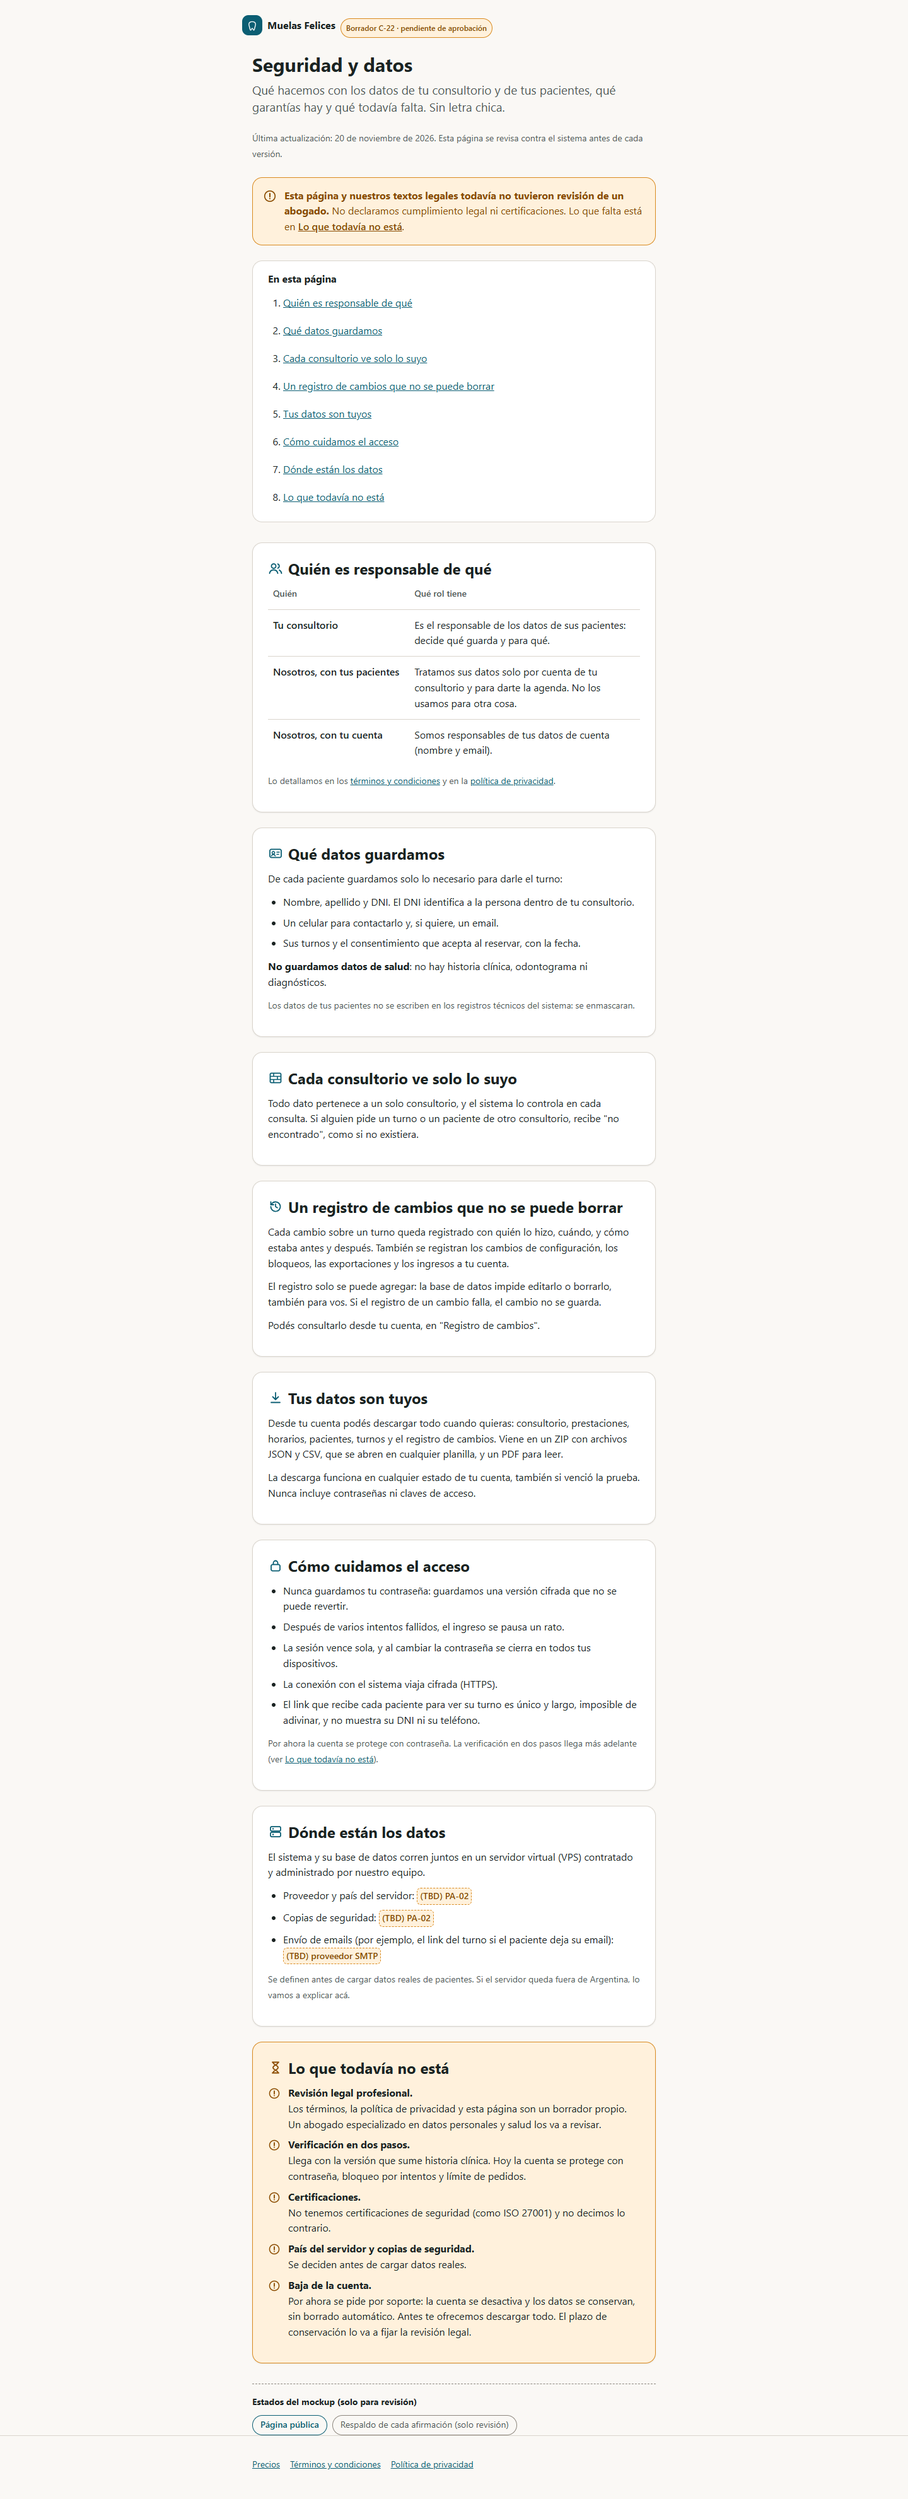
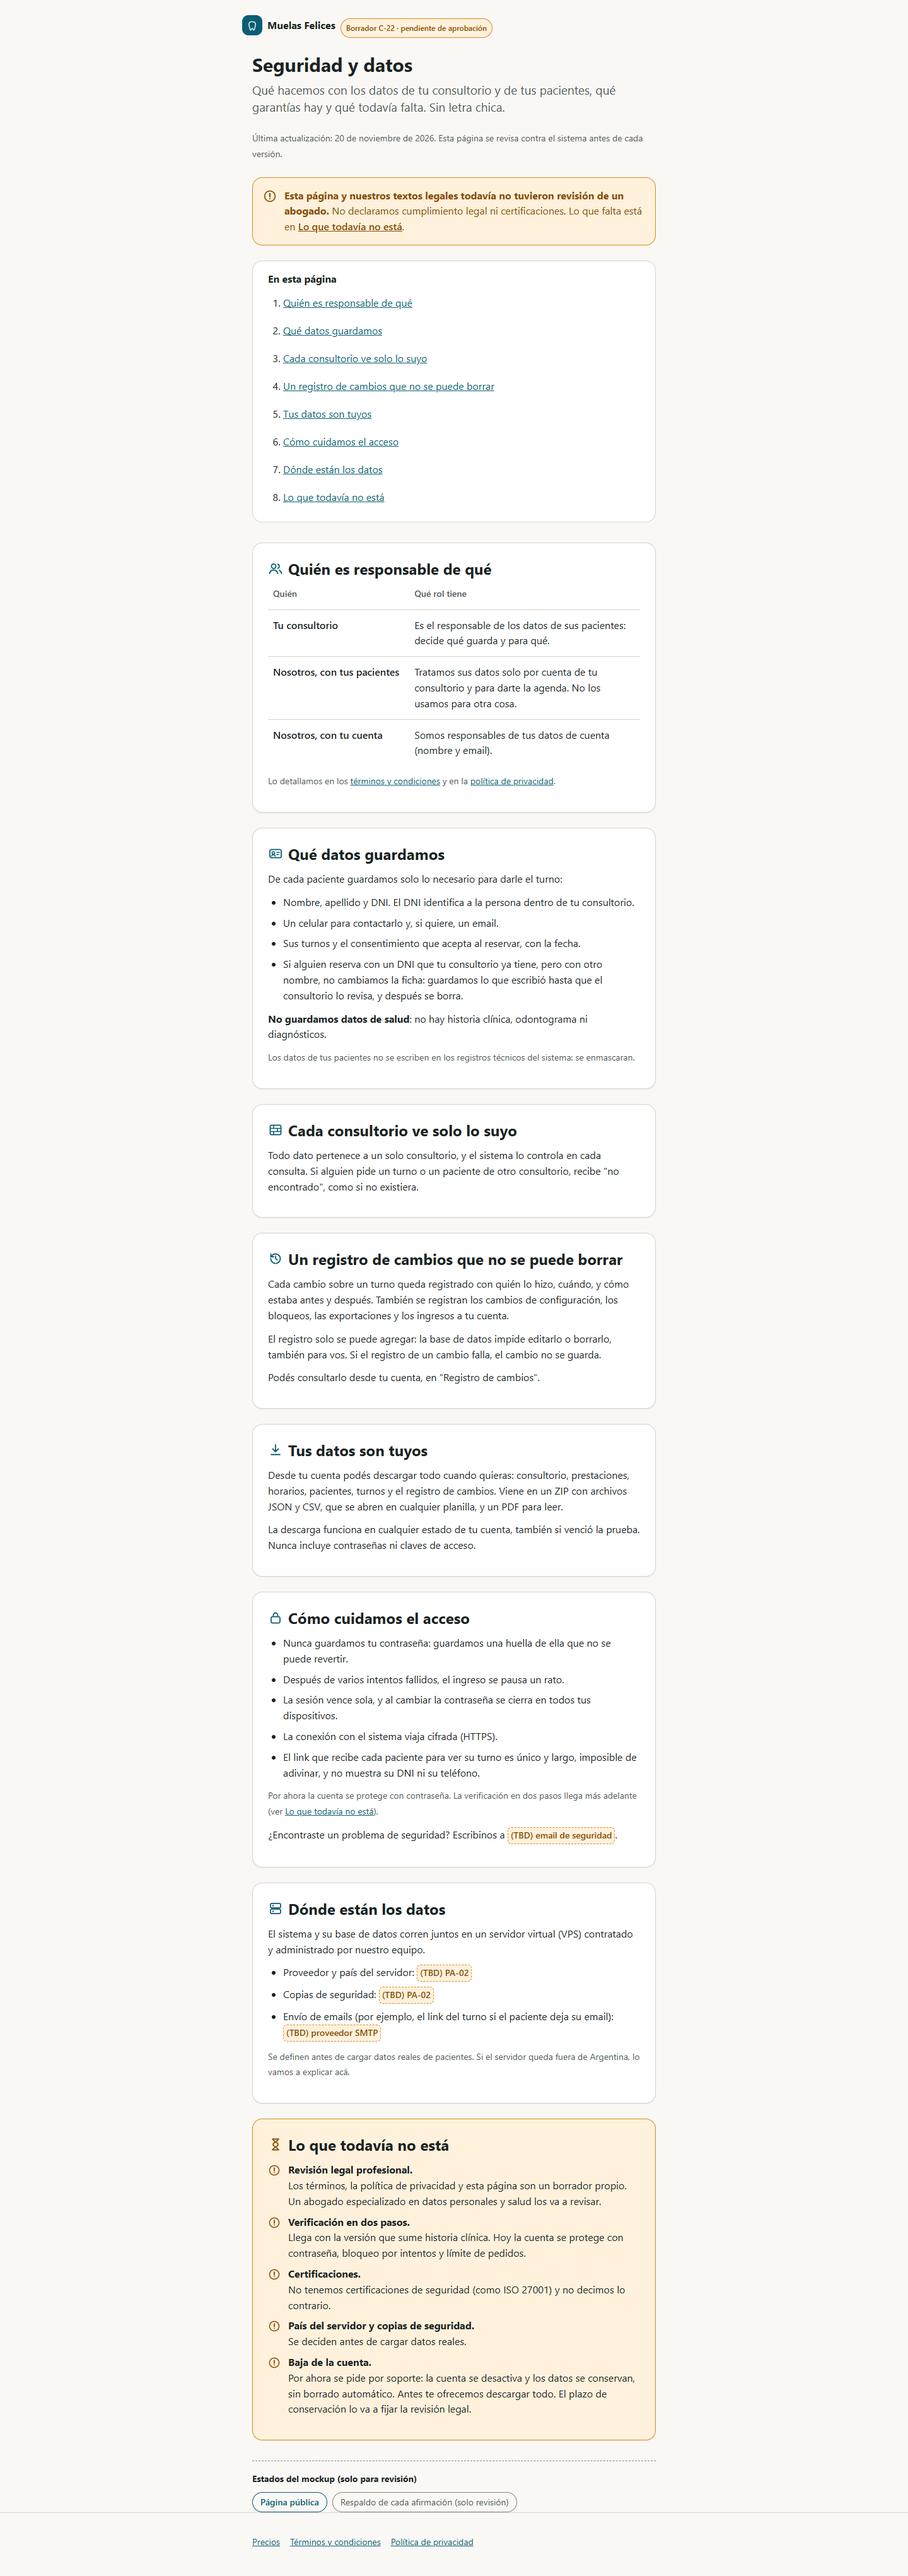
docs(seguridad): ajustes de la revisión del mockup (C-22)
- La contraseña se guarda como huella (hash), no como versión cifrada.
- "Qué datos guardamos" suma lo escrito en la reserva hasta revisar (DD-38).
- Email de seguridad como (TBD), bloquea la publicación con PA-02.
- 08_arquitectura_propuesta §Seguridad: el DNI se guarda (DD-24).
- 4 capturas renderizadas de nuevo.

Changed region(s): [[0.2812, 0.0, 0.7188, 0.9934]]

diff --git a/openspec/changes/pagina-seguridad/mockups/seguridad.html b/openspec/changes/pagina-seguridad/mockups/seguridad.html
@@ -74,10 +74,11 @@
       <li>Nombre, apellido y DNI. El DNI identifica a la persona dentro de tu consultorio.</li>
       <li>Un celular para contactarlo y, si quiere, un email.</li>
       <li>Sus turnos y el consentimiento que acepta al reservar, con la fecha.</li>
+      <li>Si alguien reserva con un DNI que tu consultorio ya tiene, pero con otro nombre, no cambiamos la ficha: guardamos lo que escribió hasta que el consultorio lo revisa, y después se borra.</li>
     </ul>
     <p><strong>No guardamos datos de salud</strong>: no hay historia clínica, odontograma ni diagnósticos.</p>
     <p class="nota">Los datos de tus pacientes no se escriben en los registros técnicos del sistema: se enmascaran.</p>
-    <div class="respaldo" data-solo="respaldo"><b>Respaldo</b><ul><li>Modelo de paciente en <code>04_modelo_de_datos.md</code> §Paciente, DNI por DD-24, consentimiento de LG-02.</li><li>PII enmascarada en logs (RN-GL-01, C-02: <code>EnmascaradorDePii</code>, test <code>LogsSinPiiTest</code>).</li><li>Sin datos clínicos en v1 (DD-16).</li></ul></div>
+    <div class="respaldo" data-solo="respaldo"><b>Respaldo</b><ul><li>Modelo de paciente en <code>04_modelo_de_datos.md</code> §Paciente, DNI por DD-24, consentimiento de LG-02.</li><li>Lo escrito en la reserva hasta revisar: DD-38 (#36), columnas <code>*_informado</code> que C-17 borra al revisar.</li><li>PII enmascarada en logs (RN-GL-01, C-02: <code>EnmascaradorDePii</code>, test <code>LogsSinPiiTest</code>).</li><li>Sin datos clínicos en v1 (DD-16).</li></ul></div>
   </section>
 
   <section class="seccion" id="aislamiento" aria-labelledby="ais-t">
@@ -104,14 +105,15 @@
   <section class="seccion" id="acceso" aria-labelledby="acc-t">
     <h2 id="acc-t"><svg aria-hidden="true"><use href="#i-lock"/></svg>Cómo cuidamos el acceso</h2>
     <ul>
-      <li>Nunca guardamos tu contraseña: guardamos una versión cifrada que no se puede revertir.</li>
+      <li>Nunca guardamos tu contraseña: guardamos una huella de ella que no se puede revertir.</li>
       <li>Después de varios intentos fallidos, el ingreso se pausa un rato.</li>
       <li>La sesión vence sola, y al cambiar la contraseña se cierra en todos tus dispositivos.</li>
       <li>La conexión con el sistema viaja cifrada (HTTPS).</li>
       <li>El link que recibe cada paciente para ver su turno es único y largo, imposible de adivinar, y no muestra su DNI ni su teléfono.</li>
     </ul>
     <p class="nota">Por ahora la cuenta se protege con contraseña. La verificación en dos pasos llega más adelante (ver <a href="#falta">Lo que todavía no está</a>).</p>
-    <div class="respaldo" data-solo="respaldo"><b>Respaldo</b><ul><li>BCrypt, bloqueo por intentos y rate limit (C-04, C-05, RN-AU-*, <code>08_arquitectura_propuesta.md</code> §Seguridad).</li><li>Sesión de 15 min con refresh rotado; cierre en todos los dispositivos al cambiar la contraseña (C-04, C-05, RN-AU-05).</li><li>HSTS y TLS fuera de local (C-04, <code>CabecerasDeSeguridadTest</code>). Hay que confirmar TLS en el VPS antes de publicar.</li><li>Token de 256 bits guardado como hash y vista sin DNI ni teléfono (C-15, C-16).</li></ul></div>
+    <p>¿Encontraste un problema de seguridad? Escribinos a <span class="tbd">(TBD) email de seguridad</span>.</p>
+    <div class="respaldo" data-solo="respaldo"><b>Respaldo</b><ul><li>Email de seguridad: decidido por Maxi en #40, se define junto con el dominio (DD-34) y <strong>bloquea la publicación</strong> como PA-02.</li><li>BCrypt (hash, no cifrado reversible), bloqueo por intentos y rate limit (C-04, C-05, RN-AU-*, <code>08_arquitectura_propuesta.md</code> §Seguridad).</li><li>Sesión de 15 min con refresh rotado; cierre en todos los dispositivos al cambiar la contraseña (C-04, C-05, RN-AU-05).</li><li>HSTS y TLS fuera de local (C-04, <code>CabecerasDeSeguridadTest</code>). Hay que confirmar TLS en el VPS antes de publicar.</li><li>Token de 256 bits guardado como hash y vista sin DNI ni teléfono (C-15, C-16).</li></ul></div>
   </section>
 
   <section class="seccion" id="hosting" aria-labelledby="host-t">

diff --git a/openspec/changes/pagina-seguridad/mockups/README.md b/openspec/changes/pagina-seguridad/mockups/README.md
@@ -3,7 +3,7 @@
 `Approval: pending`
 
 - Design system revision: 1
-- Preview: rendered (2026-11-20) · capturas de página completa a 390×844 y 1440×900 (4). En mobile, con la ventana del alto de la página. Sin scroll horizontal, sin errores de consola, controles de al menos 44 px y un solo `h1`.
+- Preview: rendered (2026-11-20, segunda versión con la revisión de #40) · capturas de página completa a 390×844 y 1440×900 (4). En mobile, con la ventana del alto de la página. Sin scroll horizontal, sin errores de consola, controles de al menos 44 px y un solo `h1`.
 - Preparado e implementa: Octi (trabajo anticipado, paso 5 del plan). El código se escribe cuando C-19 esté `[x]` (C-03 y C-06 ya están) y Maxi apruebe este mockup.
 
 Mockup de revisión de la página pública `/seguridad` (US-062, RN-PL-05, RN-PL-06). **No es código de producción**. Governance **ALTO**: son afirmaciones públicas sobre cómo se tratan datos de pacientes, así que cada frase sale de la KB o del código y tiene su respaldo a la vista en el estado `respaldo`.
@@ -25,21 +25,24 @@ No hay estados de carga ni de error: el contenido sale de una fuente versionada 
 
 Capturas: `previews/seguridad-<estado>-mobile-390x844.png` y `previews/seguridad-<estado>-desktop-1440x900.png`.
 
-## Decisiones para revisar
+## Decisiones
+
+Maxi aprobó las seis decisiones en la revisión de #40 (2026-11-20).
 
 1. **Contenido en una fuente versionada que se compila con la página** (RN-PL-06: "fuente editable versionada, no hardcodeado en componentes"). Propuesta: un Markdown o YAML en el repo (por ejemplo `frontend/src/contenido/seguridad.md`) con la fecha de actualización, que el frontend convierte en la página al compilar. Así no hace falta un endpoint, no hay estados de carga ni de error, y cada cambio de texto pasa por un PR con revisión. El test de US-062 compara la página con esa fuente.
 2. **El aviso de "sin revisión legal" va arriba de todo**, antes del índice, y lleva a "Lo que todavía no está". Es lo primero que tiene que saber quien evalúa el producto (RN-PL-05, LG-10).
 3. **"Lo que todavía no está" es una sección propia**, con el mismo color de advertencia del aviso, ícono y texto en cada ítem (no solo color). Incluye: revisión legal (DD-28), verificación en dos pasos (DD-35), certificaciones (LG-10), país del servidor y backups (PA-02) y la baja de la cuenta con conservación de datos (DD-29, LG-08).
-4. **Lenguaje llano**: "una versión cifrada que no se puede revertir" en vez de "BCrypt"; "no encontrado, como si no existiera" en vez de "404". Los nombres técnicos quedan solo en el respaldo.
+4. **Lenguaje llano**: "una huella que no se puede revertir" en vez de "BCrypt" (es un hash, no un cifrado: no se puede volver atrás); "no encontrado, como si no existiera" en vez de "404". Los nombres técnicos quedan solo en el respaldo.
 5. **Afirmaciones que dependen de changes futuros**, marcadas en el respaldo: la exportación (C-19, dependencia de C-22), la consulta del registro de cambios (C-18) y el token del link del paciente (C-15/C-16). Si alguno no está `[x]` al implementar C-22, la frase se saca (RN-PL-06).
 6. **Proveedores que tratan datos**: se nombran el VPS y el proveedor de email (que recibe el email del paciente cuando lo deja, DD-26). No se afirma "sin terceros".
 
-## Bloqueos y preguntas para Maxi
+## Bloqueos para publicar
 
 - **PA-02 bloquea la publicación**: el proveedor y país del VPS, los backups y el proveedor SMTP aparecen como `(TBD)`. La página no puede publicarse con esos marcadores; se completan cuando se decida PA-02 (antes de cargar pacientes reales, DD-25).
 - **TLS en el VPS**: "la conexión viaja cifrada (HTTPS)" vale cuando el VPS tenga TLS configurado. Hay que confirmarlo antes de publicar.
-- **Contacto para reportar problemas de seguridad**: no hay un email definido en la KB, así que el mockup no lo muestra. ¿Sumamos uno?
-- **Inconsistencia en la KB**: `08_arquitectura_propuesta.md` §Seguridad dice "minimización (sin DNI ni datos clínicos en v1)", pero DD-24 agregó el DNI. Este mockup sigue DD-24 ("guardamos nombre, apellido y DNI"). Conviene corregir esa línea de 08.
+- **Email de seguridad** (decidido por Maxi en #40): va en "Cómo cuidamos el acceso" como `(TBD)`. Se define junto con el dominio (DD-34) y bloquea la publicación igual que PA-02.
+
+`08_arquitectura_propuesta.md` §Seguridad ya no dice "sin DNI": se corrigió en este PR citando DD-24.
 
 ## Datos ficticios
 
@@ -55,5 +58,6 @@ Abrí `seguridad.html` directo en el navegador (funciona con `file://`) y usá l
 - [ ] "Lo que todavía no está" es completa: revisión legal, 2FA, certificaciones, país y backups, baja de la cuenta.
 - [ ] Ninguna frase declara cumplimiento legal ni certificaciones (RN-PL-05, LG-10).
 - [ ] Fuente versionada compilada con la página (decisión 1).
-- [ ] Bloqueos: PA-02, TLS en el VPS y contacto de seguridad.
+- [ ] Bloqueos: PA-02, TLS en el VPS y email de seguridad.
+- [ ] Ajustes de #40: huella en vez de "versión cifrada", DD-38 en "Qué datos guardamos", email de seguridad `(TBD)` y 08 corregido.
 - [ ] Textos en es-AR con voseo; solo tokens rev. 1; foco visible; objetivos ≥ 44 px; estados con ícono y texto.

diff --git a/openspec/changes/pagina-seguridad/design.md b/openspec/changes/pagina-seguridad/design.md
@@ -10,7 +10,7 @@
 
 ## Decisions
 
-Las decisiones de UI y de contenido están en `mockups/README.md` §Decisiones para revisar. La principal para la implementación:
+Las decisiones de UI y de contenido están en `mockups/README.md` §Decisiones, aprobadas por Maxi en la revisión de #40 (2026-11-20). La principal para la implementación:
 
 - **Contenido en una fuente versionada compilada con la página**: Markdown o YAML en el repo, convertido al compilar. Sin endpoint ni estados de carga; cada cambio de texto pasa por un PR.
 
@@ -18,8 +18,7 @@ Las decisiones de UI y de contenido están en `mockups/README.md` §Decisiones p
 
 - PA-02 (proveedor y país del VPS, backups) y el proveedor SMTP: aparecen como `(TBD)` y **bloquean la publicación**.
 - Confirmar TLS en el VPS antes de afirmar "conexión cifrada".
-- ¿Email de contacto para reportar problemas de seguridad?
-- `08_arquitectura_propuesta.md` §Seguridad todavía dice "sin DNI"; DD-24 lo agregó.
+- Email de seguridad (sí, decidido por Maxi): `(TBD)` hasta definir el dominio (DD-34); bloquea la publicación como PA-02.
 
 ## UI Mockups
 
@@ -27,5 +26,5 @@ Las decisiones de UI y de contenido están en `mockups/README.md` §Decisiones p
 - Decision: yes (2026-11-20)
 - Mockups: openspec/changes/pagina-seguridad/mockups/ (`seguridad.html`, más `seguridad.css` y `mockup.js`)
 - Approval: pending
-- Preview: rendered (2026-11-20); `mockups/previews/*-mobile-390x844.png`, `mockups/previews/*-desktop-1440x900.png`
+- Preview: rendered (2026-11-20, segunda versión con la revisión de #40); `mockups/previews/*-mobile-390x844.png`, `mockups/previews/*-desktop-1440x900.png`
 - Visual verify: pending

diff --git a/knowledge-base/08_arquitectura_propuesta.md b/knowledge-base/08_arquitectura_propuesta.md
@@ -88,8 +88,8 @@ servicios de `application` públicos o por eventos de dominio (`auditoria` escuc
 - **CORS**: solo el origen del frontend (`APP_FRONTEND_ORIGIN`).
 - **Secrets management**: variables de entorno vía `.env` (no versionado; se versiona `.env.example`).
   En cloud, el gestor de secretos del proveedor elegido ([PA-02](10_preguntas_abiertas.md)).
-- **Datos sensibles** ([11](11_marco_legal_argentino.md)): minimización (sin DNI ni datos clínicos en
-  v1), enmascarado de PII en logs, TLS en tránsito fuera de local, cifrado en reposo delegado al
+- **Datos sensibles** ([11](11_marco_legal_argentino.md)): minimización (sin datos clínicos en v1; el
+  DNI se guarda porque identifica al paciente, [DD-24](09_decisiones_y_supuestos.md)), enmascarado de PII en logs, TLS en tránsito fuera de local, cifrado en reposo delegado al
   Postgres como contenedor del mismo Compose en un VPS ([DD-25](09_decisiones_y_supuestos.md)); país del VPS y backups pendientes ([PA-02](10_preguntas_abiertas.md)).
 
 ## Persistencia y migraciones
